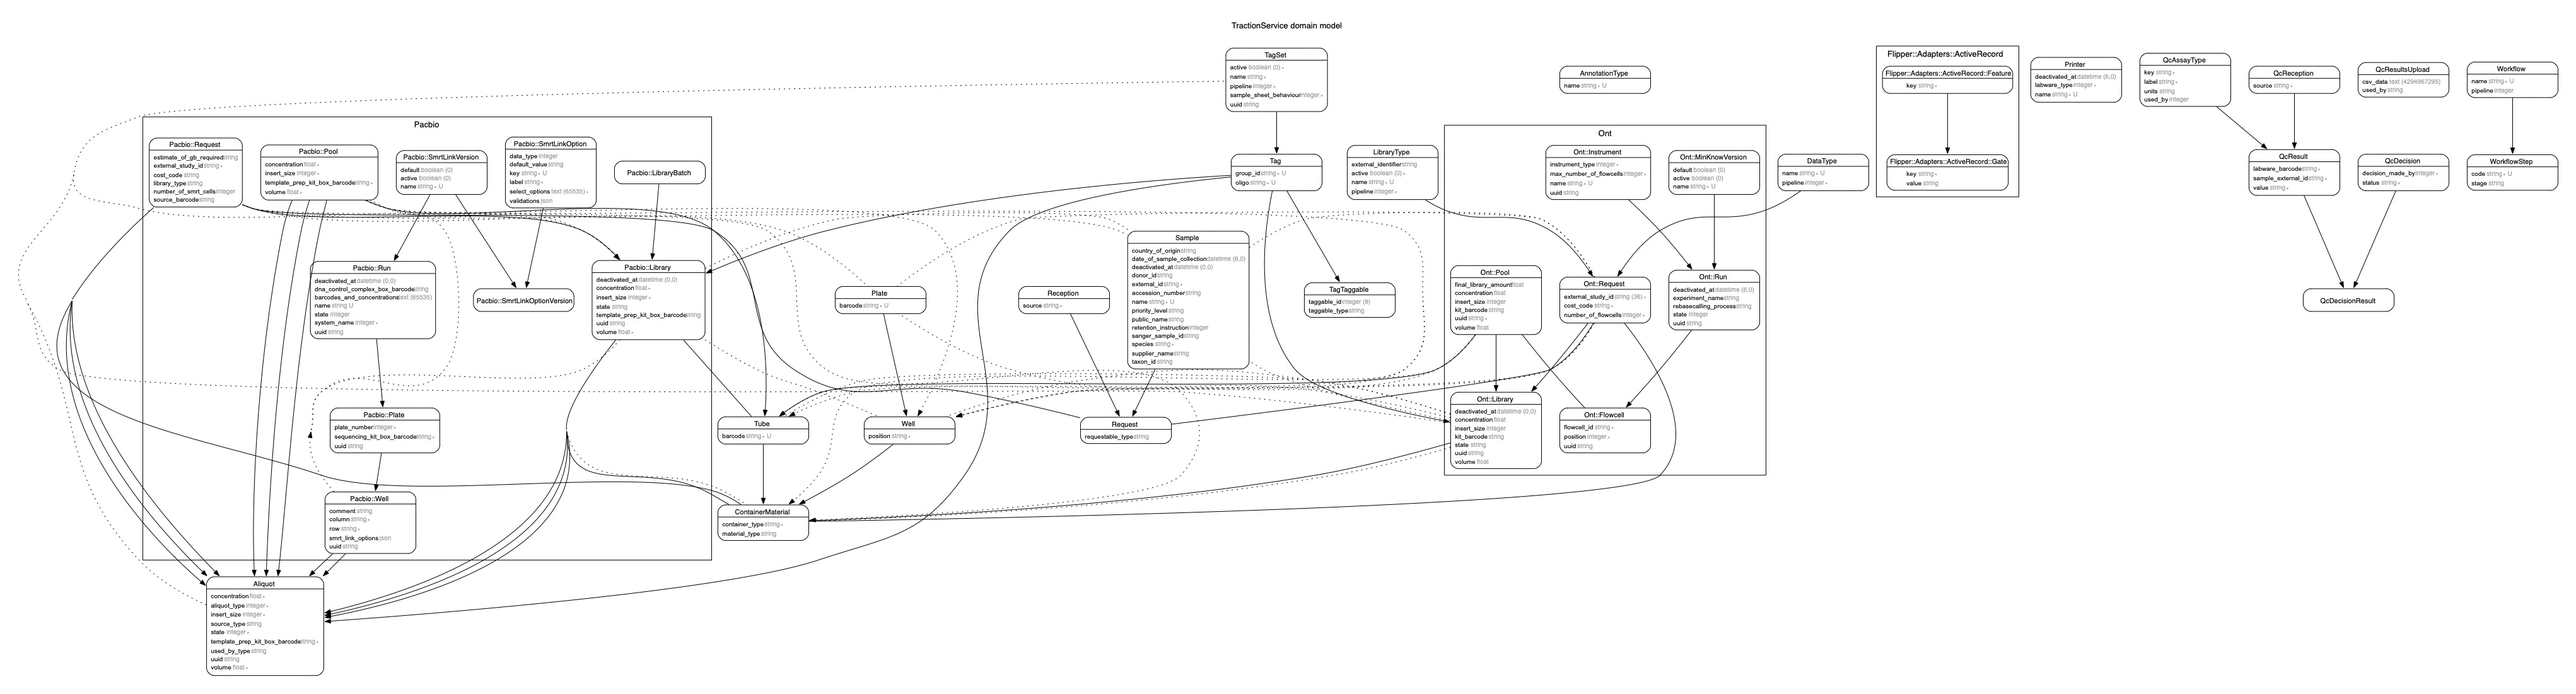
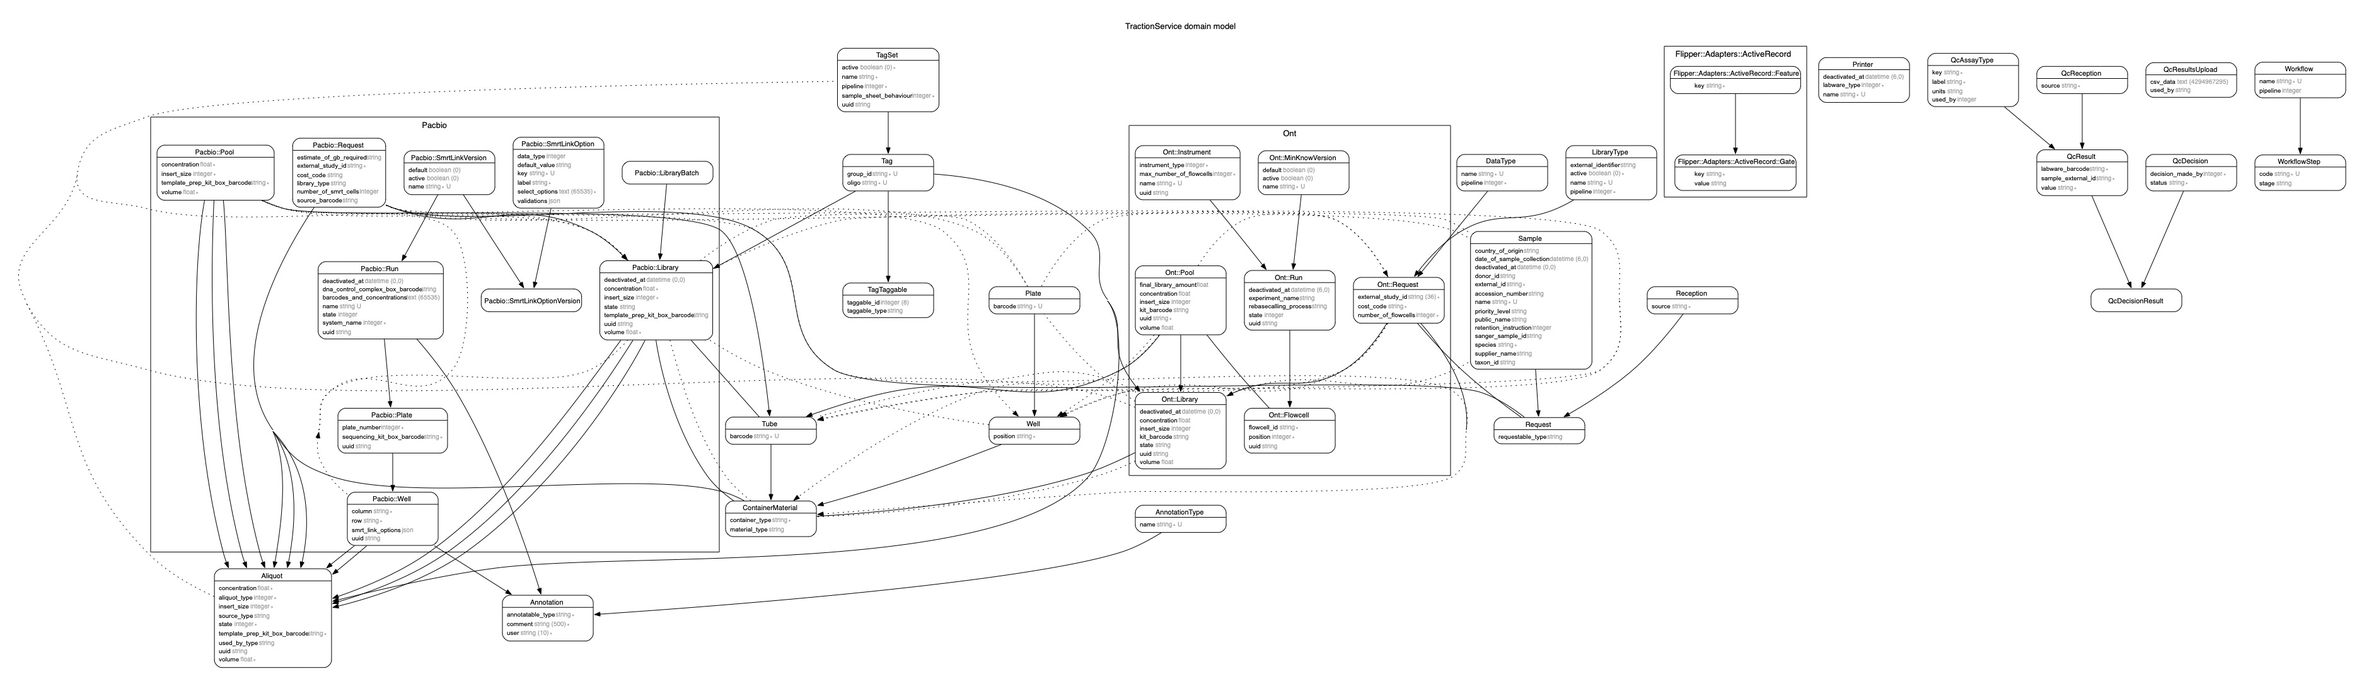
Remove comment attribute from Pacbio wells and update related models, resources, and specs

diff --git a/app/resources/v1/pacbio/run_resource.rb b/app/resources/v1/pacbio/run_resource.rb
@@ -60,7 +60,8 @@ module V1
       attributes :name, :dna_control_complex_box_barcode,
                  :system_name, :created_at, :state,
                  :pacbio_smrt_link_version_id, :plates_attributes,
-                 :adaptive_loading, :sequencing_kit_box_barcodes
+                 :adaptive_loading, :sequencing_kit_box_barcodes,
+                 :annotations_attributes
 
       # @!attribute [r] barcodes_and_concentrations
       #   @return [String] the barcodes and concentrations of the run
@@ -127,22 +128,30 @@ module V1
 
       private
 
-      def plates_attributes=(plates_parameters) # rubocop:disable Metrics/MethodLength
-        @model.plates_attributes = plates_parameters.map do |plate|
-          plate.permit(
-            :id,
-            :sequencing_kit_box_barcode,
-            :plate_number,
-            wells_attributes: [
-              # the following is needed to allow the _destroy parameter which
-              # is used to mark wells for destruction
-              :_destroy,
-              PERMITTED_WELL_PARAMETERS,
-              { used_aliquots_attributes: %i[id source_id source_type volume concentration
-                                             aliquot_type template_prep_kit_box_barcode _destroy] }
-            ]
-          )
+      def annotations_attributes=(annotations_parameters)
+        @model.annotations_attributes = annotations_parameters.map do |annotation|
+          annotation.permit(:comment, :user, :annotation_type_id)
         end
+      end
+
+      def plates_attributes=(plates_parameters)
+        @model.plates_attributes = plates_parameters.map { |plate| permit_plate_params(plate) }
+      end
+
+      def permit_plate_params(plate)
+        plate.permit(
+          :id,
+          :sequencing_kit_box_barcode,
+          :plate_number,
+          wells_attributes: [:_destroy, PERMITTED_WELL_PARAMETERS, permitted_used_aliquots]
+        )
+      end
+
+      def permitted_used_aliquots
+        { used_aliquots_attributes: %i[
+          id source_id source_type volume concentration
+          aliquot_type template_prep_kit_box_barcode _destroy
+        ] }
       end
     end
   end

diff --git a/spec/requests/v1/pacbio/runs_spec.rb b/spec/requests/v1/pacbio/runs_spec.rb
@@ -240,9 +240,9 @@ RSpec.describe 'RunsController' do
                     demultiplex_barcodes: 'In SMRT Link',
                     used_aliquots_attributes: [{ source_id: pool1.id, source_type: 'Pacbio::Pool', volume: 10, concentration: 20, aliquot_type: :derived, template_prep_kit_box_barcode: '033000000000000000000' }]
                   }
-                ],
-                annotations_attributes: [{ annotation_type_id: annotation_type.id, comment: 'Test comment', user: 'dave' }]
-              }]
+                ]
+              }],
+              annotations_attributes: [{ annotation_type_id: annotation_type.id, comment: 'Test comment', user: 'dave' }]
             }
           }
         }.to_json
@@ -265,7 +265,7 @@ RSpec.describe 'RunsController' do
         expect { post v1_pacbio_runs_path, params: body, headers: json_api_headers }.to change(Pacbio::Well, :count).by(1)
       end
 
-      it 'creates an annotation', pending: 'not yet implemented' do
+      it 'creates an annotation' do
         expect { post v1_pacbio_runs_path, params: body, headers: json_api_headers }.to change(Annotation, :count).by(1)
       end
 

diff --git a/app/resources/v1/pacbio/runs/well_resource.rb b/app/resources/v1/pacbio/runs/well_resource.rb
@@ -21,8 +21,6 @@ module V1
         #   @return [String] the row of the well
         # @!attribute [rw] column
         #   @return [String] the column of the well
-        # @!attribute [rw] comment
-        #   @return [String] the comment for the well
         # @!attribute [rw] pacbio_plate_id
         #   @return [Integer] the ID of the Pacbio plate
         # @!attribute [rw] position
@@ -63,7 +61,7 @@ module V1
         #   @return [Boolean] whether to use adaptive loading
         # @!attribute [rw] full_resolution_base_qual
         #   @return [Boolean] whether to apply full resolution base qual
-        attributes :row, :column, :comment, :pacbio_plate_id, :position,
+        attributes :row, :column, :pacbio_plate_id, :position,
                    *Rails.configuration.pacbio_smrt_link_versions.options.keys
 
         has_many :used_aliquots, class_name: 'Aliquot', relation_name: :used_aliquots

diff --git a/db/schema.rb b/db/schema.rb
@@ -10,7 +10,7 @@
 #
 # It's strongly recommended that you check this file into your version control system.
 
-ActiveRecord::Schema[8.0].define(version: 2025_05_19_101501) do
+ActiveRecord::Schema[8.0].define(version: 2025_05_23_144101) do
   create_table "aliquots", charset: "utf8mb3", force: :cascade do |t|
     t.float "volume"
     t.float "concentration"
@@ -303,7 +303,6 @@ ActiveRecord::Schema[8.0].define(version: 2025_05_19_101501) do
     t.bigint "pacbio_plate_id"
     t.string "row"
     t.string "column"
-    t.string "comment"
     t.string "uuid"
     t.datetime "created_at", precision: nil, null: false
     t.datetime "updated_at", precision: nil, null: false

diff --git a/spec/requests/v1/pacbio/runs/wells_spec.rb b/spec/requests/v1/pacbio/runs/wells_spec.rb
@@ -34,7 +34,6 @@ RSpec.describe 'WellsController' do
         expect(well_attributes['movie_time'].to_s).to eq(well.movie_time.to_s)
         expect(well_attributes['on_plate_loading_concentration']).to eq(well.on_plate_loading_concentration)
         expect(well_attributes['pacbio_plate_id']).to eq(well.pacbio_plate_id)
-        expect(well_attributes['comment']).to eq(well.comment)
         expect(well_attributes['pre_extension_time']).to eq(well.pre_extension_time)
         expect(well_attributes['binding_kit_box_barcode']).to eq(well.binding_kit_box_barcode)
       end

diff --git a/app/models/pacbio/run.rb b/app/models/pacbio/run.rb
@@ -45,10 +45,12 @@ module Pacbio
     scope :active, -> { where(deactivated_at: nil) }
 
     accepts_nested_attributes_for :plates, allow_destroy: true
+    accepts_nested_attributes_for :annotations, allow_destroy: true
 
     # This will return an empty list
     # If plate/well data is required via the run, use ?include=plates.wells
     attr_reader :plates_attributes
+    attr_reader :annotations_attributes
 
     # combines the library concentration or on plate loading concentration
     # with the tube barcode to generate a comment

diff --git a/spec/models/pacbio/well_spec.rb b/spec/models/pacbio/well_spec.rb
@@ -53,13 +53,9 @@ RSpec.describe Pacbio::Well, :pacbio do
     expect(build(:pacbio_well, plate: nil)).not_to be_valid
   end
 
-  it 'can have a comment' do
-    expect(build(:pacbio_well).comment).to be_present
-  end
-
   it 'can have a summary' do
     well = create(:pacbio_well)
-    expect(well.summary).to eq("#{well.sample_names} #{well.comment}")
+    expect(well.summary).to eq(well.sample_names.to_s)
   end
 
   describe '#tagged?' do

diff --git a/spec/factories/pacbio/wells.rb b/spec/factories/pacbio/wells.rb
@@ -10,7 +10,6 @@ FactoryBot.define do
     # you can't use attributes_for unless you remove the need for instance
     plate { instance.present? ? build(:pacbio_plate, wells: [instance]) : build(:pacbio_plate) }
 
-    sequence(:comment) { |n| "comment#{n}" }
     sequence(:binding_kit_box_barcode) { |n| "DM111710086220011171#{n}" }
 
     transient do

diff --git a/app/models/pacbio/well.rb b/app/models/pacbio/well.rb
@@ -57,7 +57,7 @@ module Pacbio
     end
 
     def summary
-      "#{sample_names} #{comment}".strip
+      sample_names.to_s
     end
 
     # A collection of all the used_aliquots for given libraries and pools in a well

diff --git a/db/migrate/20250523144101_remove_comments_from_pacbio_wells.rb b/db/migrate/20250523144101_remove_comments_from_pacbio_wells.rb
@@ -1,0 +1,5 @@
+class RemoveCommentsFromPacbioWells < ActiveRecord::Migration[8.0]
+  def change
+    remove_column :pacbio_wells, :comment
+  end
+end
